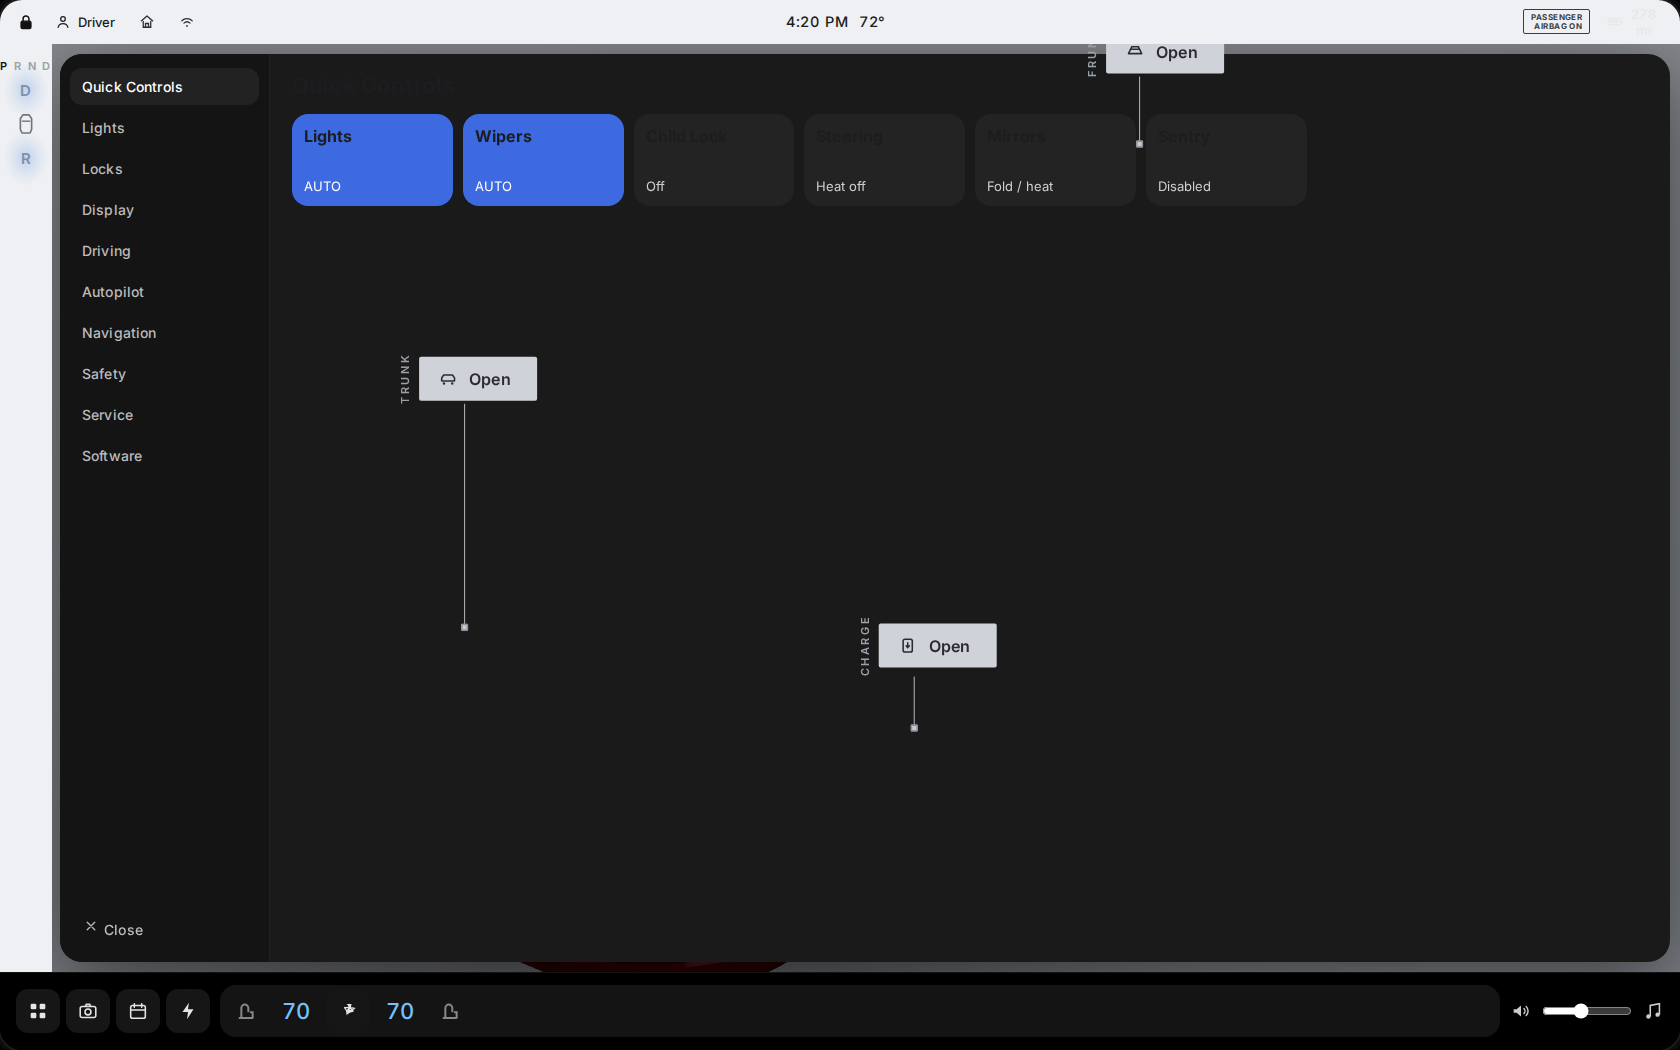
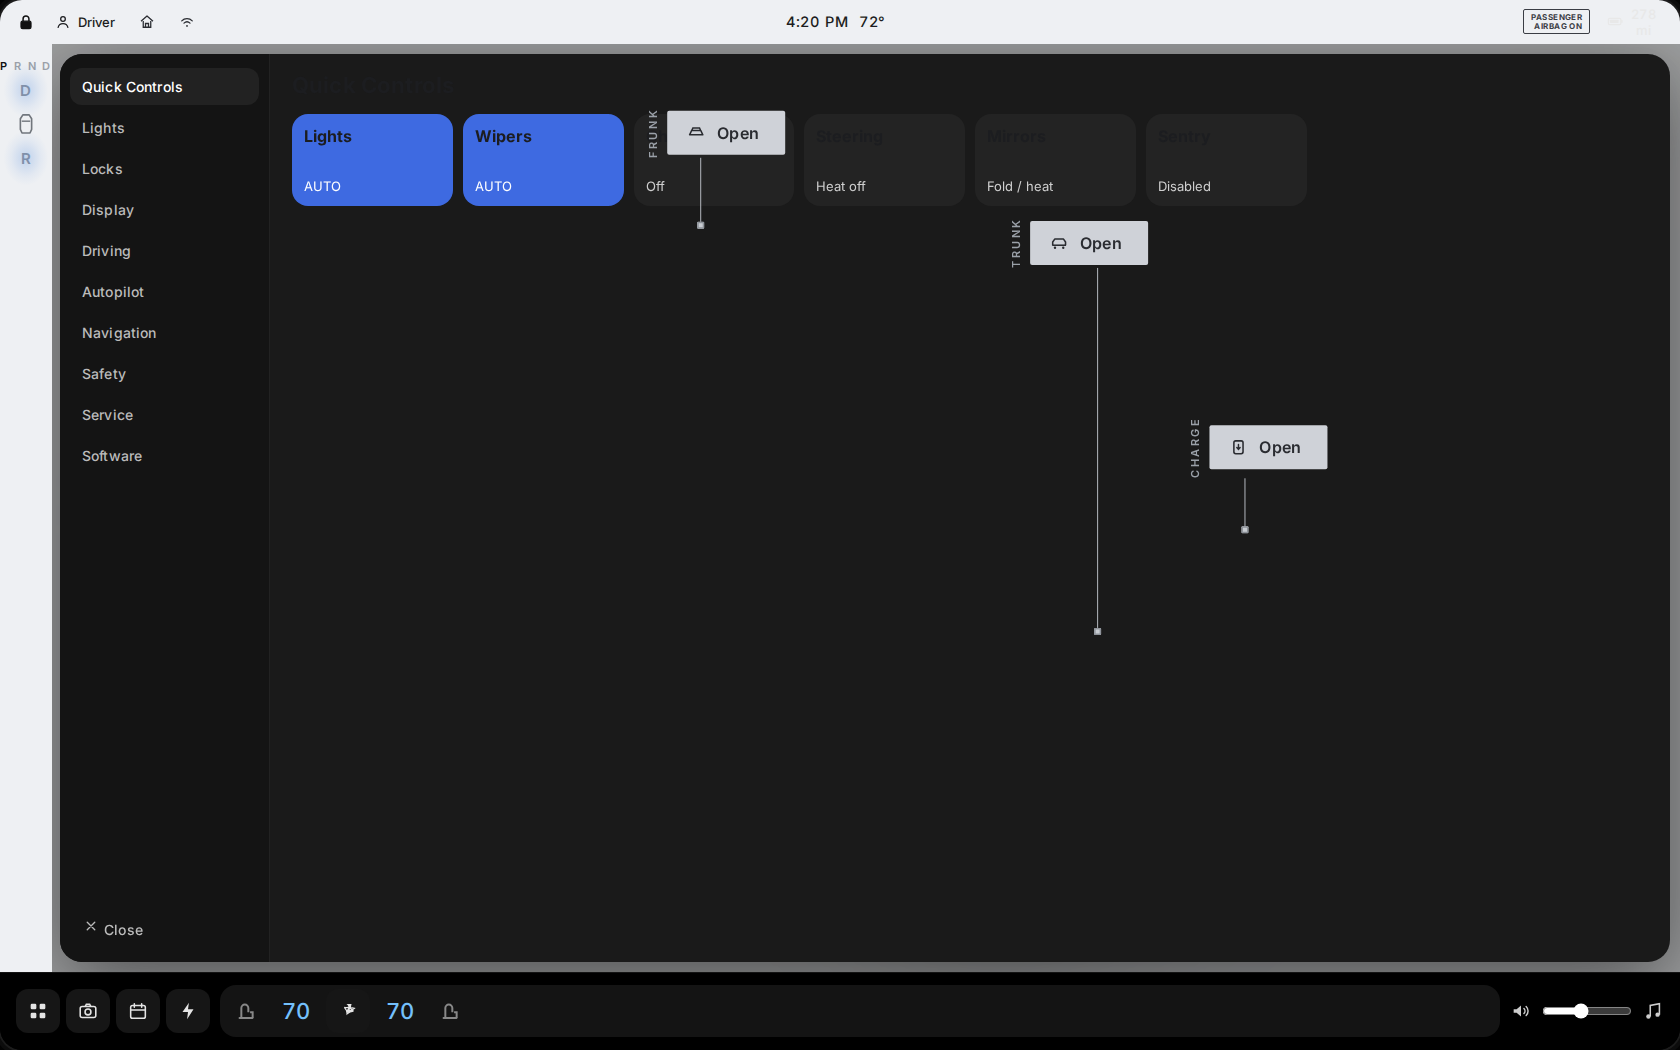
Rebaseline QA stills after the hyper-real parked campaign
Score MESH_REVIEW through iteration 4. Parked-home is a smoother CC-BY
derivative with original aero wheels — still PARTIAL vs nata, not Tesla viz.

diff --git a/docs/qa/CHECKLIST.md b/docs/qa/CHECKLIST.md
@@ -19,7 +19,7 @@ Baseline captured from this harness on 2026-09-16 (`docs/qa/screenshots/*.png`).
 
 | Scene | Latest still | vs reference | Status | Notes (update me) |
 | --- | --- | --- | --- | --- |
-| Parked home | `screenshots/parked-home.png` | `manual-m3-touchscreen-p8.jpg`, `nata-parked-car-vis.jpg` | PARTIAL | Same 27k mesh; softer studio, richer red midtones, cool rim, decklid TRUNK leader, nata-like Open cards, compact Auto Shift magnets, visible lock (`parked-home.png` 2026-09-16). Remaining: mesh is still not Tesla viz-grade. |
+| Parked home | `screenshots/parked-home.png` | `manual-m3-touchscreen-p8.jpg`, `nata-parked-car-vis.jpg` | PARTIAL | CC-BY derivative remesh (~94k) + original aero wheels, rear-right studio, dark cabin. Still not Tesla viz-grade: front well cutout, TRUNK card on glass (`parked-home.png` 2026-09-16). |
 | Route set | `screenshots/route-set.png` | `manual-m3-maps-nav-p170.jpg`, `nata-trip-progress.jpg` | PARTIAL | Turn list + Start FSD sit on the parked fullscreen (map snippet TR). No traffic progress bar, no gray traveled path, no energy-to-destination. |
 | FSD engaged | `screenshots/fsd-engaged.png` | `manual-m3-driving-status-p16.jpg`, `nata-ui-v12-hero.jpg` | FAIL | CC Model 3 now sits on the ribbon (this PR) but does not prove it is on the same road the map drives. Cheap traffic/lanes. Media player is in the dock, not on the viz. |
 | Controls open | `screenshots/controls.png` | `nata-quick-controls.jpg`, `nata-controls-search.jpg` | FAIL | Sheet covers the whole stage. Missing top Search, wrong categories (no Dynamics/Charging/Trips), tile layout ≠ Quick Controls. |
@@ -39,7 +39,7 @@ Baseline captured from this harness on 2026-09-16 (`docs/qa/screenshots/*.png`).
 | Larger speed readout | `nata-regen-speedometer.jpg`, driving-status PDF | PARTIAL | HUD exists; type/size/placement off. |
 | Map orientation + tracking chip | Maps PDF p.169 | PARTIAL | Compass toggle exists; no “Tracking Disabled” chip. |
 | FSD viz ↔ map polyline | Tone + driving-status PDF | FAIL | Other lane. Harness scene `fsd-engaged` is the regression still. |
-| Parked full-screen vehicle | UI v12 notes + `nata-parked-car-vis.jpg` | PARTIAL | Scene `parked-home`: overhead rear-3/4, glossy studio floor + contact shadow, projected trunk/frunk/charge pins. Mesh still the 27k CC-BY David_Holiday (see `LICENSE-3D.md`); not Tesla viz-grade. |
+| Parked full-screen vehicle | UI v12 notes + `nata-parked-car-vis.jpg` | PARTIAL | Scene `parked-home`: rear-right studio, CC-BY remesh + original aero wheels, dark cabin. Front well cutout and TRUNK-on-glass remain. See `LICENSE-3D.md` + `MESH_REVIEW.md`. |
 | Controls overlay on **map only** | Touchscreen PDF + `nata-quick-controls.jpg` | FAIL | Other lane. Scene `controls`. |
 
 ## How to record a pass

diff --git a/docs/qa/MESH_REVIEW.md b/docs/qa/MESH_REVIEW.md
@@ -65,5 +65,21 @@ Still: `parked-home.png` after uniform 0.365m aero wheels with 0.1m outboard off
 
 **Worst FAIL:** see-through cabin. Next: original dark cabin blocker + wheel-well liners, pull camera back so TRUNK can sit in empty studio.
 
+## Iteration 4 — 2026-09-16 (fitted cabin, `1485608`)
+
+Still: `parked-home.png` after parenting a sized cabin blocker to the clone (the wrapper-space blocker sat on the roof and was pulled back under the glass).
+
+| Axis | Score | Notes |
+| --- | --- | --- |
+| Paint | PARTIAL | Smooth candy Ultra Red, no AO blotch, studio reflections. Still flatter than nata; C-pillar highlight is a wrap not a streak. |
+| Glass | PARTIAL | Cabin no longer tunnels to the studio. Roof/backlight are dark. Side glass still a cheap opening, not nata’s tinted laminate. |
+| Wheels | PARTIAL | Rear-right 5-cover aero reads from overhead. Front-left tire is present; this mesh’s fender cutout still shows a red inner well. |
+| Proportions | PARTIAL | Rear-right 3/4 matches nata’s yaw. Window corners, spoiler, and panel gaps remain a 27k-derived silhouette. |
+| Lighting | PARTIAL | White studio + contact shadow. Shadow is still lighter than nata’s oval. |
+| Leaders | PARTIAL | TRUNK pin on the decklid; card still kisses the backlight. FRUNK/CHARGE attached. |
+
+**Ceiling (honest):** parked-home no longer reads as the toy 27k disc-wheel car, but it is not a Tesla viz one-to-one. Remaining FAILs that need a different mesh (Highland / the 737k David_Holiday we cannot download without Sketchfab auth): fender-well wrap, panel gaps, glass laminate, aero face from every hub. Do not apply the overlapping paint AO atlas. Floor stays blit-safe (no `MeshReflectorMaterial`).
+
+
 
 

diff --git a/docs/FIDELITY.md b/docs/FIDELITY.md
@@ -57,9 +57,9 @@ Scenes are **canned**. They do not call live OSRM. Pose, clock (`4:20 PM`), and 
 
 ## Current verdict (this pass)
 
-Parked viz polish (same 27k mesh, studio/materials/chrome):
+Parked viz hyper-real campaign (CC-BY David_Holiday derivative, not a new Sketchfab download):
 
-- Parked home is a **full-screen overhead rear-3/4 Model 3** with softer multi-bounce lighting, richer red midtones, a cool rim, nata-style Open cards pinned to decklid/hood/charge-port, compact Auto Shift magnets, a visible lock, a blurred map snippet, and Navigate + media in the lower third. Score: **better PARTIAL** vs `nata-parked-car-vis.jpg`. The 27k David_Holiday CC-BY mesh remains the ceiling.
+- Parked home is a **full-screen overhead rear-right Model 3** on a white studio, with a subdivided/bevelled CC-BY mesh (~94k faces), original 5-cover aero wheels, dark cabin, nata-style Open cards, compact Auto Shift, and Navigate + media in the lower third. Score: **PARTIAL** vs `nata-parked-car-vis.jpg` — no longer a toy disc-wheel car, still not Tesla viz-grade (front well cutout, glass, panel gaps). See `docs/qa/MESH_REVIEW.md`.
 - Type is Inter (OFL). Still not Tesla Sans. Score: **PARTIAL**.
 - Park status-bar order and parked PRND remain **PARTIAL**.
 - FSD viz is a stylized ribbon, not camera/occupancy grounded, and is not proven to sit on the same road the map is driving.
